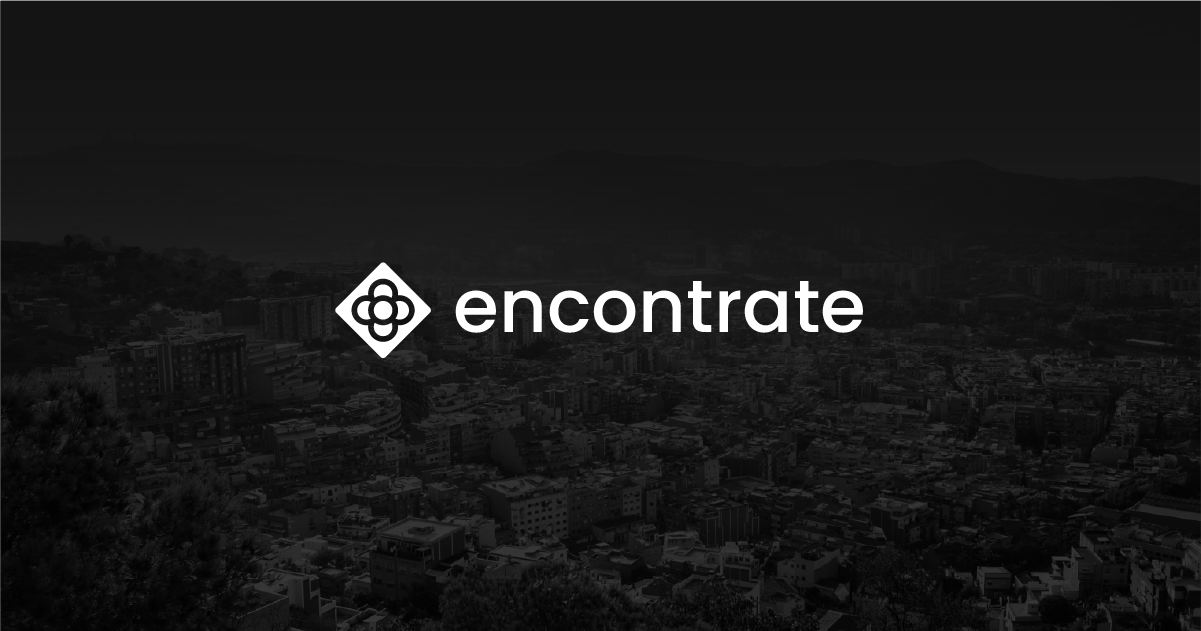
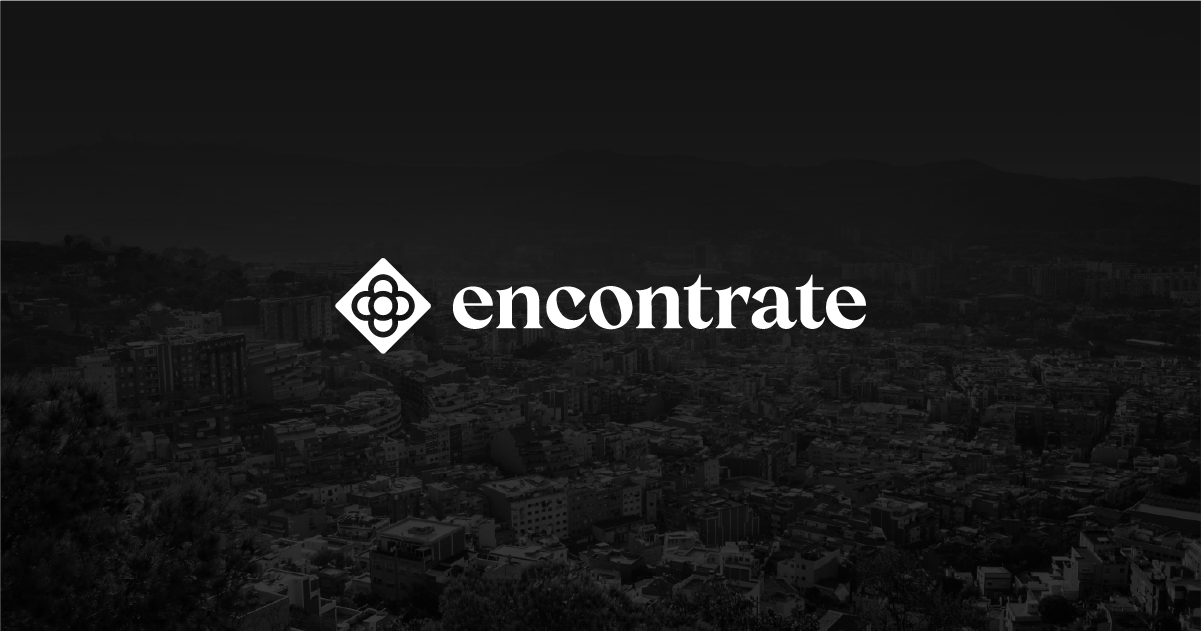
feat(brand): swap navbar to lockup SVG and refresh OG image
- New EncontrateLockup component renders the combined symbol +
  "encontrate" wordmark in a single SVG (currentColor) so it inherits
  the navbar's existing color tokens
- Navbar drops the Poppins text wordmark and uses the lockup directly,
  with an aria-label on the home link to preserve the screen-reader
  affordance the literal text was providing
- Open Graph / Twitter card image replaced (1201x631, ~363 KB) and
  metadata dimensions updated to match

Changed region(s): [[0.2773, 0.4216, 0.7394, 0.5721]]

diff --git a/src/components/encontrate-lockup.tsx b/src/components/encontrate-lockup.tsx
@@ -1,0 +1,27 @@
+import * as React from "react";
+import { cn } from "@/lib/utils";
+
+/**
+ * Full brand lockup: symbol + "encontrate" wordmark in a single glyph.
+ *
+ * Use this anywhere we want the complete logo. For symbol-only placements
+ * (favicon-style, intro spinner, etc.) reach for `EncontrateMark` instead.
+ */
+export function EncontrateLockup({
+  className,
+  ...props
+}: React.SVGProps<SVGSVGElement>) {
+  return (
+    <svg
+      viewBox="0 0 530.378 95.2873"
+      fill="currentColor"
+      role="img"
+      aria-label="encontrate"
+      focusable="false"
+      className={cn("h-8 w-auto shrink-0", className)}
+      {...props}
+    >
+      <path d="M60.2847,39.3412c.012.0171.024.036.0342.0531-.0342.0171-.0685.0342-.1027.0514.0223-.0342.0462-.0702.0685-.1044ZM35.0043,39.3412c-.0137.0171-.024.036-.0359.0531.0359.0171.0702.0342.1044.0514-.024-.0342-.0462-.0702-.0685-.1044ZM56.7806,47.6436c0-5.0462-4.0907-9.1369-9.1369-9.1369s-9.1369,4.0907-9.1369,9.1369,4.0907,9.1369,9.1369,9.1369,9.1369-4.0907,9.1369-9.1369ZM38.5067,64.2484c0,5.0379,4.0981,9.1378,9.1378,9.1378s9.1361-4.0998,9.1361-9.1378c0-1.4054-.3184-2.7389-.8884-3.9287-2.3743,1.5509-5.2074,2.4531-8.2476,2.4531s-5.875-.9021-8.2493-2.4531c-.57,1.1897-.8884,2.5232-.8884,3.9287ZM64.2484,56.7806c5.0379,0,9.1378-4.0981,9.1378-9.1378s-4.0998-9.1361-9.1378-9.1361c-1.4054,0-2.7389.3184-3.9287.8884,1.5509,2.3743,2.4531,5.2074,2.4531,8.2476s-.9021,5.875-2.4531,8.2493c1.1897.57,2.5232.8884,3.9287.8884ZM56.7806,31.0388c0-5.0379-4.0981-9.1378-9.1378-9.1378-5.0379,0-9.1361,4.0998-9.1361,9.1378,0,1.4054.3184,2.7389.8884,3.9287,2.3743-1.5509,5.2074-2.4531,8.2476-2.4531,3.0402,0,5.875.9021,8.2493,2.4531.57-1.1897.8884-2.5232.8884-3.9287ZM31.0388,38.5067c-5.0379,0-9.1378,4.0981-9.1378,9.1378,0,5.0379,4.0998,9.1361,9.1378,9.1361,1.4054,0,2.7389-.3184,3.9287-.8884-1.5509-2.3743-2.4531-5.2074-2.4531-8.2476,0-3.0402.9021-5.875,2.4531-8.2493-1.1897-.57-2.5232-.8884-3.9287-.8884ZM60.2847,55.946c.012-.0188.024-.036.036-.0548-.036-.0171-.0719-.0342-.1061-.0531.024.036.0462.0719.0702.1078ZM49.8517.9146l44.521,44.521c1.2195,1.2195,1.2195,3.1966,0,4.4161l-44.521,44.521c-1.2195,1.2195-3.1966,1.2195-4.4161,0L.9146,49.8517c-1.2195-1.2195-1.2195-3.1966,0-4.4161L45.4356.9146c1.2195-1.2195,3.1966-1.2195,4.4161,0ZM47.6445,15.9097c-8.3418,0-15.1292,6.7874-15.1292,15.1292,0,.5255.0274,1.0442.0805,1.5561-.5118-.0531-1.0305-.0805-1.5561-.0805-8.3418,0-15.1292,6.7874-15.1292,15.1292s6.7874,15.1292,15.1292,15.1292c.5255,0,1.0442-.0274,1.5561-.0805-.0531.5118-.0805,1.0305-.0805,1.5561,0,8.3418,6.7857,15.1292,15.1292,15.1292s15.1275-6.7874,15.1275-15.1292c0-.5255-.0274-1.0459-.0805-1.5578.5118.0531,1.0322.0805,1.5578.0805,8.3401,0,15.1275-6.7857,15.1275-15.1275s-6.7874-15.1292-15.1275-15.1292c-.5255,0-1.0459.0274-1.5578.0805.0531-.5118.0805-1.0305.0805-1.5561,0-8.3418-6.7857-15.1292-15.1275-15.1292ZM55.9469,35.0035c-.0188-.0137-.036-.0257-.0548-.0359-.0171.0359-.0342.0719-.0531.1061.036-.024.0719-.0479.1078-.0702ZM35.0711,55.8433c-.0342.0171-.0685.0325-.1027.0496.012.0171.0223.036.0342.0531.0222-.0342.0445-.0685.0685-.1027ZM330.5997,38.4557c-.6013-2.059-2.0924-3.3214-4.1553-3.5949-2.2192-.2942-4.4959.0562-6.2609,1.4915-1.945,1.5818-3.2499,3.6441-4.1546,6.016l.0345,21.6313c.0037,2.3379,1.3619,4.2719,3.3479,5.1814.1368.0626.2848.1911.3156.2847s-.1402.3775-.1878.3906l-18.341-.0055-.524-.1039c-.1431-.0284.1007-.4884.1958-.5318,2.1357-.9291,3.2268-2.8727,3.3929-5.2179l.0039-24.9469-.3137-2.4974c-.5268-1.6436-1.5041-2.9704-3.1774-3.6742-.0265-.1299-.0452-.4636-.0361-.6272,5.336-.1029,10.9493-.4244,15.2742-4.0239l.0365,9.869c1.7832-3.2573,4.158-5.9135,7.2935-7.8288,2.3553-1.4387,4.9828-2.0839,7.7486-2.003,4.4994.1317,8.1604,1.6298,10.2508,5.7342,1.2247,2.4045,1.8524,5.0002,1.8594,7.7859l.0557,22.074c.006,2.3802,1.2732,4.3434,3.3445,5.3164.1242.0584.2789.1973.336.2863s-.1784.3978-.2359.3939l-18.7997-.0024c-.1323-.0875-.1122-.5189.0506-.5923,2.061-.9303,3.483-2.8354,3.4855-5.2099l.0206-19.6643c.0022-2.0552-.285-3.9621-.86-5.931ZM449.725,70.5194c5.9797.5941,9.4567-3.5321,11.7408-8.6142l-.6205-.5306c-.5606.7627-1.0068,1.4932-1.7773,2.0358-1.2838.904-3.2326.813-4.4028-.2692-1.0997-1.0171-1.7024-2.4951-1.7151-4.0388l-.1203-14.5742c-.0376-4.5548-1.2985-9.2256-4.7508-12.224-1.4767-1.2826-3.0932-2.2336-4.9529-2.8661-4.7189-1.6051-9.7349-1.4133-14.4123.2508-4.9983,1.7783-9.0929,5.0192-11.9828,9.4677l10.566,5.4036c.4932-3.2654,1.2903-6.3312,2.6742-9.2341.6974-1.4271,1.4833-2.6814,2.6832-3.6868,1.3617-1.0539,3.1266-1.4685,4.7232-.7686,1.1643.5103,1.841,1.5436,2.3998,2.6707.8405,2.0093,1.2647,4.1266,1.2749,6.3582l.0355,7.7191c-4.6039-.0956-9.1585.4175-13.5876,1.8204-2.8021.8876-5.2939,2.1774-7.5179,4.0458-2.8813,2.4206-4.2496,6.064-3.4318,9.7668.4178,1.8916,1.5188,3.4286,3.0125,4.655,2.0742,1.7029,4.6295,2.4749,7.3317,2.6387,6.7719.4104,11.2971-2.9973,14.7078-8.5995.5559,4.6753,3.434,8.2323,8.1225,8.5738ZM429.2187,54.0757c2.6896-3.5425,7.5092-4.1701,11.8639-4.2562l.0043,9.3015c-2.1762,3.4214-5.201,6.344-9.4542,5.1556-3.8944-1.7358-4.6247-6.8018-2.414-10.2008ZM275.3885,27.9155c-11.8616,0-21.4774,9.6158-21.4774,21.4774s9.6158,21.4774,21.4774,21.4774,21.4774-9.6158,21.4774-21.4774-9.6158-21.4774-21.4774-21.4774ZM281.084,67.3465c-4.0982,1.4058-7.3647-1.0102-9.7249-4.5733-1.3453-2.0309-2.3759-4.1479-3.2154-6.4638-2.1746-5.9992-5.552-18.2177-1.1492-23.0059,1.9653-2.1374,5.1105-2.839,7.757-1.6559,3.0347,1.3567,5.249,4.9347,6.6162,7.9797,1.7537,3.9061,3.0124,7.9191,3.8732,12.1268,1.0862,5.3098,1.578,13.6252-4.1568,15.5924ZM223.7632,52.4293c-2.0386-4.0178-2.9858-8.4394-2.8055-12.9472.0751-1.8767.5473-3.5486,1.4012-5.1372,1.3002-2.4191,3.8225-3.61,6.5575-3.0614,1.5877.3185,2.8916,1.2669,4.04,2.4286,3.7662,4.0283,5.4359,9.6665,6.7931,15.0665l10.263-11.0452c-1.4039-1.7925-2.718-3.5353-4.4387-4.9419-2.0023-1.6368-4.3332-2.6566-6.7418-3.5379-6.8361-1.8151-14.0843-1.0725-19.7815,3.2217-6.5586,4.9434-9.0768,13.3292-7.6157,21.2932,1.2428,6.7745,5.8425,12.3427,12.1454,15.034,3.6392,1.5539,7.4825,2.0689,11.4256,1.6295,7.8215-.8717,14.2435-6.3283,15.9322-14.0553-.1342-.1996-.4005-.4006-.6362-.4897-2.9184,4.3868-7.1417,6.3182-12.4117,6.1364-2.8745-.0991-5.5778-.8348-7.9964-2.5122-2.6708-1.8524-4.6807-4.2242-6.1306-7.0818ZM395.6834,42.785c.7168-2.3109,1.9897-4.3237,3.8169-5.8464,1.4477-1.2064,3.2297-1.3119,4.8396-.325,1.3061.8169,2.3052,1.9733,3.2645,3.2224l3.7003,6.2765,3.9832-16.2006c-6.2218-3.1748-13.0763-1.0943-17.1231,4.3757-1.0144,1.4142-1.7532,2.9022-2.4698,4.4818l-.015-10.5903c-4.2984,3.5747-10.1287,3.9941-15.5905,4.0678l-.0719.4774c-.0147.0975.2152.1751.3749.2523,2.0438.9881,3.4954,3.0284,3.496,5.4748l.0062,25.5974c.0006,2.3199-1.3927,4.25-3.39,5.1483-.2216.0996-.3458.646-.1495.6462l20.3727.0193c.0982-.3165-.0223-.5645-.2459-.646-2.709-.9873-4.7913-2.7607-4.7923-5.8483l-.0063-20.5833ZM376.8855,59.029c-1.6104,3.2386-4.4029,5.6607-7.9883,4.5814-2.3463-.7064-3.8621-2.8883-3.8624-5.3827l-.0037-26.8442,11.0436.0022.0012-2.3524-11.0432.0028.0747-12.5684-.8891.0253c-1.8399,5.9678-5.4281,11.2379-11.8432,12.3028l-3.879.2553.0018,2.3316,4.6955.0053.0764,27.9889c.0045,1.6345.2841,3.0428.9632,4.4794,2.1184,4.4811,6.7421,7.0817,11.6821,6.7082,2.5406-.1921,4.7255-1.0048,6.6798-2.6311,2.5533-2.1249,4.2684-5.0587,4.9185-8.3764l-.6279-.5278ZM488.7695,59.0417c-.7467,1.374-1.4702,2.4493-2.608,3.4309-1.5585,1.3446-3.7448,1.7645-5.7319,1.0193-2.1572-.809-3.5104-2.9037-3.5109-5.2615l-.0051-26.8467,11.0601.0012.0008-2.3504-11.06-.0005.0771-12.5311c-.2768-.1502-.7304-.1-.9434.1244-1.8091,5.8892-5.3945,11.0523-11.6888,12.1526l-3.9821.2682.0009,2.3353,4.696.0034.1104,28.7249c.0094,2.4431,1.1765,4.6467,2.689,6.4145,2.4341,2.845,5.8945,4.2056,9.5953,4.0554,6.2016-.2517,10.6121-4.9907,11.9222-10.9305-.1299-.201-.5071-.5514-.6215-.6095ZM529.4387,56.1197c-2.3515,3.8043-6.3213,6.0076-10.7788,5.9848-5.742.1572-10.9162-2.7502-13.8526-7.6511-1.3223-2.207-2.2353-4.5316-2.9397-7.0724h28.51c.0397-7.119-3.9198-13.6531-10.2974-16.8676-6.6152-3.3343-14.6044-2.8332-20.7474,1.3221-4.7264,3.2936-7.7167,8.4317-8.389,14.1525-.379,3.2251-.3228,6.3373.5991,9.4675,3.2567,11.0583,15.2462,17.1422,26.2804,14.5351,3.5003-.827,6.5709-2.8701,8.7854-5.6565,1.8635-2.3448,2.921-5.0412,3.5543-7.9724-.3498-.1993-.5395-.264-.7242-.2419ZM502.0264,34.2573c.8649-1.7807,2.4918-2.8484,4.501-2.9266,2.6367-.159,5.0187.9402,6.9322,2.8126,3.0863,3.0199,5.1778,6.8712,6.3464,11.0449l-18.4919-.081c-.6457-3.5537-.8693-7.6299.7122-10.8498ZM191.818,44.3901l-.0202,19.6122c-.0024,2.3136-1.3407,4.293-3.3563,5.1614-.1627.0701-.3723.6675-.2025.6677l18.8743.0194c.2079.0002.1922-.5221-.0231-.6164-2.0692-.906-3.4528-2.8571-3.4586-5.2333l-.0535-21.7948c-.0071-2.9072-.5638-5.6429-1.855-8.1735-2.0886-4.0935-5.5976-5.563-10.0739-5.7631-3.4073-.1524-6.5985.8589-9.3014,2.8988-2.5181,1.9005-4.4932,4.2053-5.9524,7.0005l-.0175-9.9546c-4.2806,3.6183-9.9911,3.9427-15.3413,4.036l.064.6175c2.4171.9923,3.5255,3.4122,3.5231,6.0373l-.023,25.0918c-.0021,2.2981-1.2852,4.1891-3.199,5.1544-.2026.1022-.3325.2053-.4044.3046-.0539.0745.1309.4222.1573.3999l18.8011-.0013c.0659-.0562.1856-.4269.087-.4849l-.3479-.2046c-1.9191-.9561-3.2682-2.8246-3.2723-5.1149l-.0388-21.6564c1.8433-4.6938,5.0332-8.2844,10.351-7.5524,2.0862.2872,3.6446,1.5205,4.2428,3.6537.548,1.9541.8427,3.8546.8405,5.8952ZM156.3111,56.1319c-2.3418,3.8169-6.4173,5.9993-10.8948,6.0078-5.6311.0107-10.6721-2.6892-13.6191-7.5011-1.3732-2.2422-2.3609-4.6409-3.0498-7.2577l28.5016.0004c.0342-7.5093-4.3579-14.3081-11.2633-17.3248-6.5179-2.8475-14.0734-2.157-19.9412,1.8856-4.6674,3.3396-7.6067,8.4491-8.2458,14.1648-.3493,3.1245-.3056,6.1139.5545,9.1467,3.1815,11.2176,15.2988,17.403,26.4769,14.7021,3.343-.8078,6.205-2.7269,8.4087-5.329,1.9896-2.3493,3.158-5.2603,3.7754-8.2183-.0771-.1833-.6181-.415-.703-.2765ZM128.9537,34.1391c.9104-1.7734,2.5869-2.7809,4.5972-2.8167,2.6186-.1051,4.9781,1.0306,6.8632,2.9023,3.0392,3.0176,5.1006,6.8137,6.2605,10.9644l-18.4876-.0824c-.6617-3.5612-.8834-7.7149.7668-10.9676Z" />
+    </svg>
+  );
+}

diff --git a/src/components/home-navbar.tsx b/src/components/home-navbar.tsx
@@ -3,7 +3,6 @@
 import Link from "next/link";
 import { usePathname } from "next/navigation";
 import { Bell, Menu } from "lucide-react";
-import { Poppins } from "next/font/google";
 import { useSession } from "next-auth/react";
 import { useState } from "react";
 import { signOutAction } from "@/app/actions/auth";
@@ -14,14 +13,9 @@ import {
   DialogHeader,
   DialogTitle,
 } from "@/components/ui/dialog";
-import { EncontrateMark } from "@/components/encontrate-mark";
+import { EncontrateLockup } from "@/components/encontrate-lockup";
 import { isPublicListingDetailPath } from "@/lib/listing-route";
 import { cn } from "@/lib/utils";
-
-const logo = Poppins({
-  weight: "500",
-  subsets: ["latin"],
-});
 
 function isBuscarHabitacionPath(p: string | null): boolean {
   return Boolean(p && (p === "/listings" || p.startsWith("/listings/")));
@@ -88,9 +82,9 @@ export function HomeNavbar({ topOffset = "none" }: { topOffset?: TopOffset } = {
         <div className="flex w-full max-w-[1440px] items-center justify-between">
           <Link
             href="/"
+            aria-label="encontrate — Inicio"
             className={cn(
-              logo.className,
-              "inline-flex items-center gap-2 text-2xl leading-8",
+              "inline-flex items-center",
               plainBackground
                 ? "text-foreground"
                 : "text-primary-foreground dark:text-foreground",
@@ -102,8 +96,7 @@ export function HomeNavbar({ topOffset = "none" }: { topOffset?: TopOffset } = {
               }
             }}
           >
-            <EncontrateMark className="size-8 shrink-0" />
-            encontrate
+            <EncontrateLockup className="h-8 w-auto shrink-0" />
           </Link>
 
           <div className="hidden flex-wrap items-center justify-end gap-3 md:flex lg:gap-4">

diff --git a/src/app/layout.tsx b/src/app/layout.tsx
@@ -52,8 +52,8 @@ export const metadata: Metadata = {
     images: [
       {
         url: "/open-graph-image.png",
-        width: 1200,
-        height: 630,
+        width: 1201,
+        height: 631,
         alt: "Encontrate",
       },
     ],
